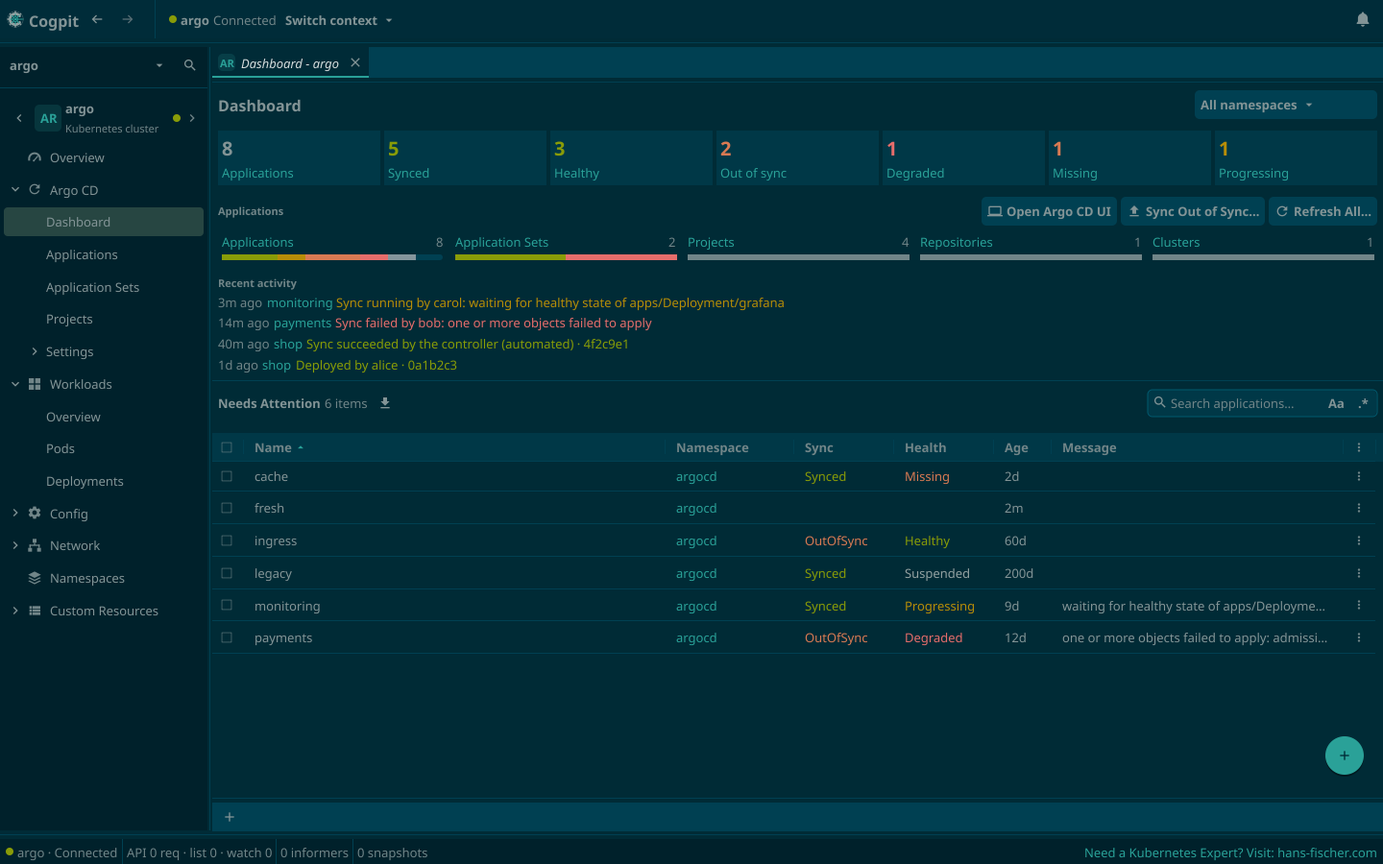
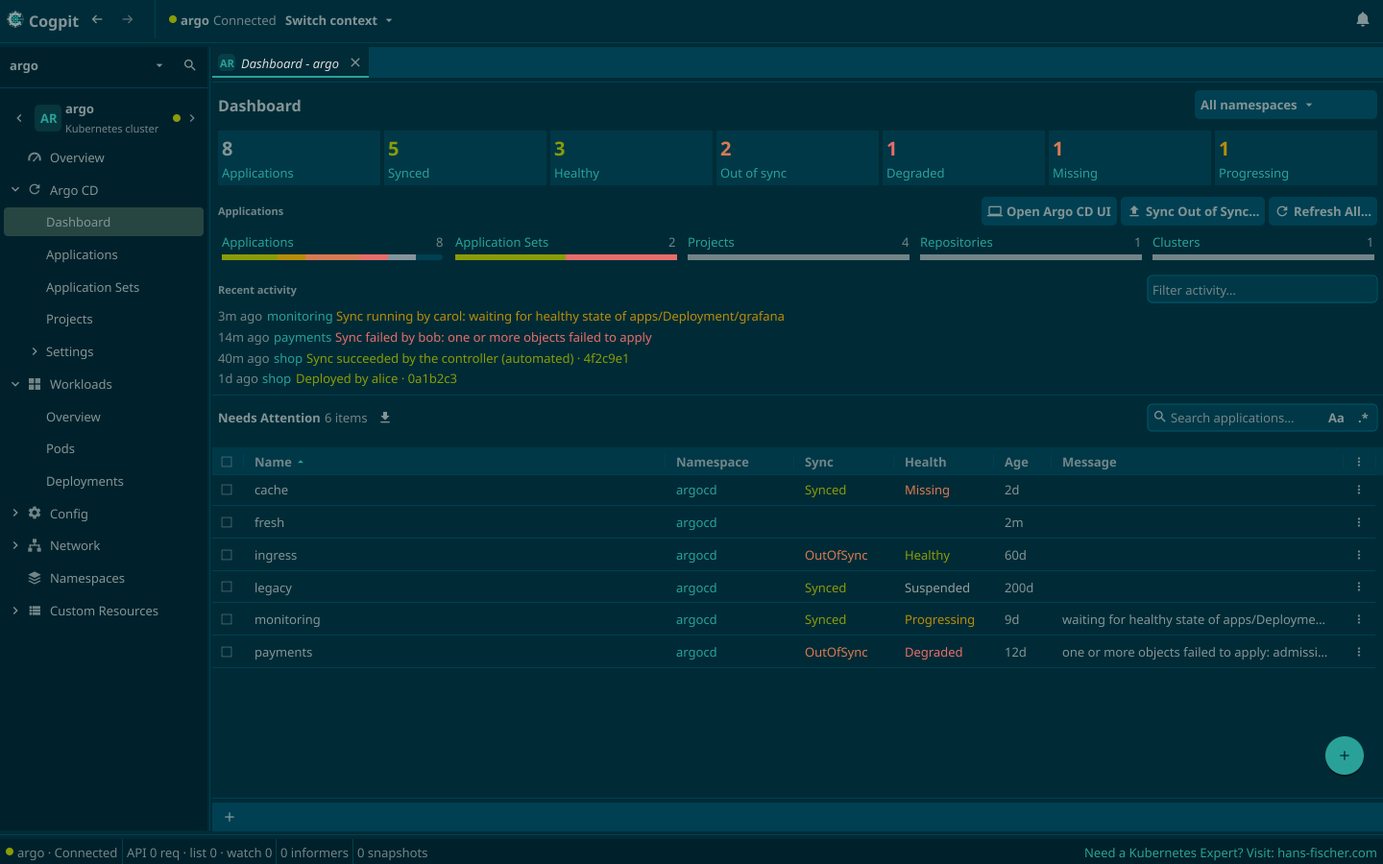
feat(argocd): the Sync and Refresh dialogs list several Applications to uncheck, and the Dashboard's activity has a filter

diff --git a/internal/ui/fyneui/argocd.go b/internal/ui/fyneui/argocd.go
@@ -2,6 +2,7 @@ package fyneui
 
 import (
 	"fmt"
+	"slices"
 	"strings"
 
 	"fyne.io/fyne/v2"
@@ -91,24 +92,63 @@ func argoNames(refs []model.ObjectRef) string {
 	return s
 }
 
-// argoDialog shows a dialog of Argo CD's actions: a line naming the Applications and their
-// context, the options, and the action's button (Lens's "Sync app(s)" and "Refresh app(s)"
-// dialogs, documented, not captured: the layout and texts are Cogpit's).
-func (sh *shell) argoDialog(title, action string, refs []model.ObjectRef, options fyne.CanvasObject, run func()) {
-	width := sh.app.Settings().Theme().Size(sizeConfirmWidth)
+// argoDialog shows a dialog of Argo CD's actions (Lens's "Sync app(s)" and "Refresh app(s)"
+// dialogs, documented, not captured: the layout and texts are Cogpit's): the Applications and
+// their context, the options, and the action's button. Several Applications are a list of checks,
+// every one checked at first, as Lens preselects them; the user unchecks those to leave out, and
+// run gets the checked ones (none: nothing runs).
+func (sh *shell) argoDialog(title, action string, refs []model.ObjectRef, options fyne.CanvasObject, run func([]model.ObjectRef)) {
+	th := sh.app.Settings().Theme()
+	width := th.Size(sizeConfirmWidth)
 	context := ""
 	if len(refs) > 0 {
 		context = refs[0].Context
 	}
-	what := newParagraph(argoNames(refs)+" (context "+context+")", colorMuted, width)
+	picker := newArgoPicker(refs)
+	var what fyne.CanvasObject = newParagraph(argoNames(refs)+" (context "+context+")", colorMuted, width)
+	if len(refs) > 1 {
+		list := container.NewVScroll(picker.checks)
+		list.SetMinSize(fyne.NewSize(width, min(picker.checks.MinSize().Height, th.Size(sizePopupMaxList))))
+		what = container.NewVBox(newParagraph("Context "+context+":", colorMuted, width), list)
+	}
 	d := dialog.NewCustomConfirm(title, action, "Cancel", container.NewVBox(what, newSpace(theme.SizeNamePadding), options),
 		func(ok bool) {
-			if ok {
-				run()
+			if chosen := picker.chosen(); ok && len(chosen) > 0 {
+				run(chosen)
 			}
 		}, sh.win)
 	d.Resize(fyne.NewSize(width, d.MinSize().Height))
 	d.Show()
+}
+
+// argoPicker is a dialog's list of Applications, each a check.
+type argoPicker struct {
+	refs   []model.ObjectRef
+	checks *widget.CheckGroup
+}
+
+func newArgoPicker(refs []model.ObjectRef) *argoPicker {
+	keys := make([]string, len(refs))
+	for i, r := range refs {
+		keys[i] = r.Key()
+	}
+	p := &argoPicker{refs: refs, checks: widget.NewCheckGroup(keys, nil)}
+	p.checks.SetSelected(keys)
+	return p
+}
+
+// chosen returns the checked Applications, in the list's order; a single one is always chosen.
+func (p *argoPicker) chosen() []model.ObjectRef {
+	if len(p.refs) == 1 {
+		return p.refs
+	}
+	var out []model.ObjectRef
+	for _, r := range p.refs {
+		if slices.Contains(p.checks.Selected, r.Key()) {
+			out = append(out, r)
+		}
+	}
+	return out
 }
 
 // openArgoSyncDialog asks whether to prune, then syncs: one Application through
@@ -123,12 +163,12 @@ func (sh *shell) openArgoSyncDialog(refs []model.ObjectRef) {
 	prune := widget.NewCheck("Prune resources not in Git", nil)
 	width := sh.app.Settings().Theme().Size(sizeConfirmWidth)
 	hint := newParagraph("Pruning deletes the live resources the Application manages that are no longer in Git; Cogpit asks once more before it does.", colorMuted, width)
-	sh.argoDialog("Sync "+argoTitle(refs), "Sync", refs, container.NewVBox(prune, hint), func() {
-		if len(refs) == 1 {
-			sh.dispatch(argoSyncCommand, argoSyncParams{Ref: refs[0], Prune: prune.Checked}, nil)
+	sh.argoDialog("Sync "+argoTitle(refs), "Sync", refs, container.NewVBox(prune, hint), func(chosen []model.ObjectRef) {
+		if len(chosen) == 1 {
+			sh.dispatch(argoSyncCommand, argoSyncParams{Ref: chosen[0], Prune: prune.Checked}, nil)
 			return
 		}
-		sh.dispatch(argoSyncManyCommand, argoSyncManyParams{Refs: refs, Prune: prune.Checked}, nil)
+		sh.dispatch(argoSyncManyCommand, argoSyncManyParams{Refs: chosen, Prune: prune.Checked}, nil)
 	})
 }
 
@@ -141,13 +181,13 @@ func (sh *shell) openArgoRefreshDialog(refs []model.ObjectRef) {
 	mode := widget.NewRadioGroup([]string{normal, hard}, nil)
 	mode.Required = true
 	mode.SetSelected(normal)
-	sh.argoDialog("Refresh "+argoTitle(refs), "Refresh", refs, mode, func() {
+	sh.argoDialog("Refresh "+argoTitle(refs), "Refresh", refs, mode, func(chosen []model.ObjectRef) {
 		isHard := mode.Selected == hard
-		if len(refs) == 1 {
-			sh.dispatch(argoRefreshCommand, argoRefreshParams{Ref: refs[0], Hard: isHard}, nil)
+		if len(chosen) == 1 {
+			sh.dispatch(argoRefreshCommand, argoRefreshParams{Ref: chosen[0], Hard: isHard}, nil)
 			return
 		}
-		sh.dispatch(argoRefreshManyCommand, argoRefreshManyParams{Refs: refs, Hard: isHard}, nil)
+		sh.dispatch(argoRefreshManyCommand, argoRefreshManyParams{Refs: chosen, Hard: isHard}, nil)
 	})
 }
 

diff --git a/internal/ui/fyneui/argocd_dashboard.go b/internal/ui/fyneui/argocd_dashboard.go
@@ -1,6 +1,8 @@
 package fyneui
 
 import (
+	"slices"
+	"strings"
 	"sync/atomic"
 	"time"
 
@@ -32,6 +34,7 @@ type argoPanel struct {
 	strip    *fyne.Container
 	cards    *fyne.Container
 	activity *fyne.Container
+	filter   *widget.Entry // the activity's filter: the window's, as the navigator's search is
 	openUI   *widget.Button
 	sync     *widget.Button
 	refresh  *widget.Button
@@ -64,8 +67,12 @@ func newArgoPanel(sh *shell) *argoPanel {
 	actions := container.NewHBox(newTextLine("Applications", colorMuted, theme.SizeNameCaptionText, fyne.TextStyle{Bold: true}),
 		layout.NewSpacer(), p.openUI, p.sync, p.refresh)
 	title := newTextLine("Recent activity", colorMuted, theme.SizeNameCaptionText, fyne.TextStyle{Bold: true})
+	p.filter = widget.NewEntry()
+	p.filter.SetPlaceHolder("Filter activity…")
+	p.filter.OnChanged = func(string) { p.showActivity() }
+	head := container.NewBorder(nil, nil, title, sized(sizeSearchWidth, "", p.filter))
 	p.root = inset(theme.SizeNameInnerPadding, theme.SizeNamePadding,
-		container.NewVBox(p.strip, newSpace(theme.SizeNamePadding), actions, p.cards, newSpace(theme.SizeNamePadding), title, p.activity))
+		container.NewVBox(p.strip, newSpace(theme.SizeNamePadding), actions, p.cards, newSpace(theme.SizeNamePadding), head, p.activity))
 	return p
 }
 
@@ -114,12 +121,32 @@ func (p *argoPanel) show(m *engine.ArgoCDDashboardModel) {
 	p.cards.Refresh()
 	p.enable(p.sync, len(m.OutOfSync) > 0)
 	p.enable(p.refresh, len(m.All) > 0)
+	p.showActivity()
+}
+
+// showActivity lists the newest activities that match the filter (the Application's namespace and
+// name, what happened, the revision; every term, ignoring case), at most argoActivityLines.
+func (p *argoPanel) showActivity() {
+	if p.data == nil {
+		return
+	}
+	terms := strings.Fields(strings.ToLower(p.filter.Text))
 	lines := make([]fyne.CanvasObject, 0, argoActivityLines)
 	now := p.sh.now()
-	for _, a := range m.Activity[:min(len(m.Activity), argoActivityLines)] {
-		lines = append(lines, newArgoActivityLine(p.sh, a, now))
+	for _, a := range p.data.Activity {
+		if len(lines) == argoActivityLines {
+			break
+		}
+		text := strings.ToLower(a.Ref.Key() + " " + a.Text + " " + a.Revision)
+		if !slices.ContainsFunc(terms, func(t string) bool { return !strings.Contains(text, t) }) {
+			lines = append(lines, newArgoActivityLine(p.sh, a, now))
+		}
 	}
-	if len(lines) == 0 {
+	switch {
+	case len(lines) > 0:
+	case len(terms) > 0:
+		lines = append(lines, newTextLine("No activity matches the filter.", colorMuted, theme.SizeNameText, fyne.TextStyle{}))
+	default:
 		lines = append(lines, newTextLine("No operations yet.", colorMuted, theme.SizeNameText, fyne.TextStyle{}))
 	}
 	p.activity.Objects = lines

diff --git a/internal/ui/fyneui/argocd_test.go b/internal/ui/fyneui/argocd_test.go
@@ -313,6 +313,31 @@ func TestArgoDashboardPanel(t *testing.T) {
 		}
 	}
 
+	// The dialog preselects every Application; one unchecked is left out.
+	test.Tap(sh.view.argo.sync)
+	q.until(t, "the sync dialog", func() bool { return w.Canvas().Overlays().Top() != nil })
+	groups := findAll[*widget.CheckGroup](w.Canvas().Overlays().Top())
+	if len(groups) != 1 || len(groups[0].Selected) != 2 {
+		t.Fatalf("the dialog's Applications %+v", groups)
+	}
+	groups[0].SetSelected([]string{"argocd/payments"})
+	argoTapButton(t, w, "Sync")
+	q.until(t, "the sync of the one left", func() bool { return len(writer.Writes()) == 11 })
+	if got := writer.Writes()[10]; got != "sync argocd/payments" {
+		t.Errorf("write %s", got)
+	}
+
+	// The activity's filter.
+	sh.view.argo.filter.SetText("PAYMENTS failed")
+	if n := len(sh.view.argo.activity.Objects); n != 1 {
+		t.Errorf("%d activities match", n)
+	}
+	sh.view.argo.filter.SetText("nothing like it")
+	if l, ok := sh.view.argo.activity.Objects[0].(*textLine); !ok || l.text != "No activity matches the filter." {
+		t.Errorf("no match shows %#v", sh.view.argo.activity.Objects[0])
+	}
+	sh.view.argo.filter.SetText("")
+
 	// A tile opens the Applications view searched for its state.
 	for _, l := range findAll[*linkText](sh.view.argo.strip) {
 		if l.text == "Out of sync" {

diff --git a/docs/parity/resource-parity.md b/docs/parity/resource-parity.md
@@ -188,7 +188,7 @@ come after it ([D-9](../developer/decisions.md#d-9-scope-against-lenss-paid-and-
 | Flux CD › Image Automation › Image Repositories, Image Policies, Image Update Automations (3 views) | `image.toolkit.fluxcd.io/v1` (v1beta2); columns not captured | Reconcile, Suspend, Resume as above; Image Policies Reconcile only | partial (2026-10-13): curated profiles as above (inferred): Image Repositories' Image, Last Scan (an age) and Tags (how many the last scan found), the drawer's newest ten tags; Image Policies' Image Repository (a link) and Latest Image (`status.latestRef`, v1beta2's `latestImage`), the drawer's policy rule and previous image; Image Update Automations' Source (a link to the Git repository) and Last Run, the drawer's branches, path, strategy and last push. No Revision column ([`flux_automation.go`](../../internal/model/kinds/flux_automation.go); `TestFluxStatusTexts`, `TestCuratedGolden`) |
 | Flux CD › Notifications › Alerts, Providers, Receivers (3 views) | `notification.toolkit.fluxcd.io/v1beta3` Alert and Provider (v1beta2), `v1` Receiver (v1beta2); columns not captured | Reconcile, Suspend, Resume as above; Reconcile only for an Alert or Provider that reports a status | partial (2026-10-13): curated profiles as above (inferred): Alerts' Provider (a link) and Severity ("info" by default), the drawer's event sources as links; Providers' Type and Channel; Receivers' Type and Resources (a count), the drawer's resources as links. v1beta3's Alerts and Providers are static, without a status: Ready unless suspended (D-34). A provider's address and proxy and a receiver's webhook path are never shown (H-63) ([`flux_automation.go`](../../internal/model/kinds/flux_automation.go); `TestFluxStatusTexts`, `TestFluxKeepsSecretsOut`, `TestCuratedGolden`) |
 | Flux CD › Sources › Git Repositories, OCI Repositories, Helm Repositories, Buckets, External Artifacts (5 views) | `source.toolkit.fluxcd.io/v1` (v1beta2; External Artifacts v1 only); columns not captured | Reconcile, Suspend, Resume as above; none for External Artifacts, which another controller makes | partial (2026-10-13): curated profiles as above (inferred): URL and Ref for Git and OCI repositories (the branch, tag, semver range, name, commit or digest followed), URL and Type ("default" or "oci") for Helm repositories, Endpoint and Bucket for buckets, Source for external artifacts; Revision the artifact's; a URL's credentials masked (`https://<redacted>@host/…`, SSH's `git@` kept) in cells, search and drawer; the drawers' secret references by name as links, the artifact's digest and update time ([`flux_sources.go`](../../internal/model/kinds/flux_sources.go); `TestFluxURL`, `TestFluxStatusTexts`, `TestCuratedGolden`) |
-| Argo CD | Dashboard, Applications, Application Sets, Projects, Settings › Repositories, Settings › Clusters (Lens's documentation, "Using Argo CD", read 2026-10-13, not captured: Applications Name, Namespace, Sync, Health, Project, Destination, Revision, Age; Application Sets Name, Namespace, Generators, Age; Projects Name, Namespace, Description, Source Repos, Age; Repositories Name, Type, URL, Project, Age; Clusters Name, Server, Age; found by the `argoproj.io` definitions, the settings "whenever Argo CD is installed") | Sync `argocd.application.sync` (with Prune), Refresh `argocd.application.refresh` (Normal or Hard), both in bulk | partial (2026-10-13, G23): the five lists with the documented columns. Applications, Application Sets and Projects are curated profiles of the `argoproj.io/v1alpha1` definitions (picked like Vertical Pod Autoscalers' while the cluster serves them; Cogpit's hidden columns after Lens's: Repository, Target Revision, Path/Chart, Message; Project, Applications (owned, from the cache), Status; Destinations); the row status health first, then sync (Degraded, an error condition or a failed operation an error; Missing a warning; Progressing or an operation in progress pending; OutOfSync a warning; Suspended stopped; Healthy and Synced good), the drawers (sources, destination, sync policy, conditions, operation, the managed resources linking to built-in and Argo CD kinds, at most 500, the last 20 syncs; an Application Set's Applications; a project's destinations, allow and deny lists, roles, sync windows) all inferred. Repositories and Clusters are virtual kinds over the Secrets labelled `argocd.argoproj.io/secret-type`, offered while the cluster serves `applications.argoproj.io` (Cogpit's default); they show only an allowlist of non-credential keys, URLs' user information redacted ([D-35](../developer/decisions.md#d-35-what-argo-cds-repository-and-cluster-secrets-show), a night decision); Name is the Secret's name, Argo CD's own name a hidden Display Name (Cogpit's default) ([`kinds/argocd.go`](../../internal/model/kinds/argocd.go), [`argocd_sets.go`](../../internal/model/kinds/argocd_sets.go), [`argocd_settings.go`](../../internal/model/kinds/argocd_settings.go), [`engine/argocd.go`](../../internal/engine/argocd.go); `TestArgoCDColumns`, `TestArgoCDStatusTexts`, `TestCuratedGolden`, `TestArgoSettingsGolden`, `TestArgoSettingsNeverShowCredentials`, `FuzzArgoCD`, `TestArgoCDKindsFollowTheirDefinitions`). Sync and Refresh partial (2026-10-13): `argocd.application.sync` (prune optional) and `argocd.application.refresh` (normal or hard) on one Application (row menu and drawer, Sync then Refresh before Edit and Delete), `argocd.application.syncMany` and `argocd.application.refreshMany` on a selection, through the Kubernetes API only: Refresh sets `argocd.argoproj.io/refresh`, Sync writes the Application's operation as `argocd app sync` does ([D-36](../developer/decisions.md#d-36-how-argo-cds-sync-writes-the-operation), a night decision: each source's target revision, the spec's sync options and retry, `initiatedBy: cogpit`; bound to the UID and the resourceVersion checked; refused while an operation is requested or running, with that reason); mutating, a sync with prune destructive and confirmed for every origin, its confirmation naming the Applications, namespace and context, that resources no longer in Git are deleted, and the resources Argo CD's last comparison marks for pruning (Cogpit's addition); one notification for a batch, as Lens's documentation says ([`commands/argocd.go`](../../internal/engine/commands/argocd.go), [`cluster/argocd.go`](../../internal/cluster/argocd.go); `TestArgoSyncWritesTheOperation`, `TestArgoSyncRefusedWhileAnOperationRuns`, `TestArgoSyncChecksAgainAfterAChange`, `TestArgoRefreshNormalAndHard`, `TestArgoBulkSyncAndRefresh`, `TestArgoActionsBoundToTheConfirmedUID`, `TestArgoSyncPatch`, `TestArgoRefreshPatches`, `TestArgoSyncConflicts`). Dashboard partial in the engine (2026-10-13): a page (`argocd/dashboard`) built from the cache for the namespace filter: Lens's documented health strip (Applications, Synced, Healthy, Out of sync, Degraded, Missing, Progressing), the Applications by health and by sync, a card per served Argo CD kind with its count and health bar, Needs attention as the page's table (the Applications not Healthy or not Synced, or whose last operation failed, with Name, Namespace, Sync, Health, Message and Age), the out-of-sync Applications and all of them for the card's Sync and Refresh, and the recent activity (operations and syncs from the Applications' status, newest first, 20); a strip's tile opens the Applications view through its search text, since the view has no status filter (inferred); agents read it with `argocd.dashboard` ([`engine/argocd_dashboard.go`](../../internal/engine/argocd_dashboard.go); `TestArgoDashboard`). "Open Argo UI" partial (2026-10-13): `argocd.openUI` finds the Service labelled `app.kubernetes.io/name=argocd-server` in the cache, as Lens's documentation says Lens does, and forwards its https port 443 (else its http port 80) as `service.portForward` does, or reuses that forward while it listens; the window opens the URL, an agent gets it; mutating, as a forward is (`TestArgoOpenUIFindsTheServer`, `TestArgoOpenUIOpensTheForward`; inferred: the port's choice; not tried against a running argocd-server). Not built: the activity's text filter. In the window (2026-10-13): the navigator's Argo CD group ([ui-parity › Cluster sidebar](ui-parity.md#cluster-sidebar)); the Dashboard's strip (a tile opens the Applications view searched for its state), the cards with their health bars, Sync Out of Sync… and Refresh All… on the Applications card (Lens: a sync preselects the out-of-sync Applications, a refresh all; Cogpit takes them as they are, without a way to deselect one, inferred), the last eight activities, Needs attention as the page's table; the Sync dialog with Lens's "Prune resources not in Git" toggle, off at first, and the Refresh dialog with Normal or Hard, from the row menu, the drawer's toolbar, the palette and the selection's menu; a sync with prune then shows the engine's confirmation (Cogpit asks twice: the dialog, then the confirmation naming what prune deletes; Lens's single dialog shows the risk, inferred) ([`fyneui/argocd.go`](../../internal/ui/fyneui/argocd.go), [`argocd_dashboard.go`](../../internal/ui/fyneui/argocd_dashboard.go); `TestArgoNavigatorGroup`, `TestArgoDashboardPanel`, `TestArgoSyncWithPruneConfirms`; PNGs dashboard [dark](../../internal/ui/fyneui/testdata/argocd_dashboard_dark.png), [light](../../internal/ui/fyneui/testdata/argocd_dashboard_light.png), Applications [dark](../../internal/ui/fyneui/testdata/argocd_applications_dark.png), [light](../../internal/ui/fyneui/testdata/argocd_applications_light.png), an Application's drawer [dark](../../internal/ui/fyneui/testdata/argocd_application_drawer_dark.png), [light](../../internal/ui/fyneui/testdata/argocd_application_drawer_light.png), [Sync dialog](../../internal/ui/fyneui/testdata/argocd_sync_dialog_dark.png), [Refresh dialog](../../internal/ui/fyneui/testdata/argocd_refresh_dialog_light.png)). Not tried in a real window; not checked against a running Argo CD |
+| Argo CD | Dashboard, Applications, Application Sets, Projects, Settings › Repositories, Settings › Clusters (Lens's documentation, "Using Argo CD", read 2026-10-13, not captured: Applications Name, Namespace, Sync, Health, Project, Destination, Revision, Age; Application Sets Name, Namespace, Generators, Age; Projects Name, Namespace, Description, Source Repos, Age; Repositories Name, Type, URL, Project, Age; Clusters Name, Server, Age; found by the `argoproj.io` definitions, the settings "whenever Argo CD is installed") | Sync `argocd.application.sync` (with Prune), Refresh `argocd.application.refresh` (Normal or Hard), both in bulk | partial (2026-10-13, G23): the five lists with the documented columns. Applications, Application Sets and Projects are curated profiles of the `argoproj.io/v1alpha1` definitions (picked like Vertical Pod Autoscalers' while the cluster serves them; Cogpit's hidden columns after Lens's: Repository, Target Revision, Path/Chart, Message; Project, Applications (owned, from the cache), Status; Destinations); the row status health first, then sync (Degraded, an error condition or a failed operation an error; Missing a warning; Progressing or an operation in progress pending; OutOfSync a warning; Suspended stopped; Healthy and Synced good), the drawers (sources, destination, sync policy, conditions, operation, the managed resources linking to built-in and Argo CD kinds, at most 500, the last 20 syncs; an Application Set's Applications; a project's destinations, allow and deny lists, roles, sync windows) all inferred. Repositories and Clusters are virtual kinds over the Secrets labelled `argocd.argoproj.io/secret-type`, offered while the cluster serves `applications.argoproj.io` (Cogpit's default); they show only an allowlist of non-credential keys, URLs' user information redacted ([D-35](../developer/decisions.md#d-35-what-argo-cds-repository-and-cluster-secrets-show), a night decision); Name is the Secret's name, Argo CD's own name a hidden Display Name (Cogpit's default) ([`kinds/argocd.go`](../../internal/model/kinds/argocd.go), [`argocd_sets.go`](../../internal/model/kinds/argocd_sets.go), [`argocd_settings.go`](../../internal/model/kinds/argocd_settings.go), [`engine/argocd.go`](../../internal/engine/argocd.go); `TestArgoCDColumns`, `TestArgoCDStatusTexts`, `TestCuratedGolden`, `TestArgoSettingsGolden`, `TestArgoSettingsNeverShowCredentials`, `FuzzArgoCD`, `TestArgoCDKindsFollowTheirDefinitions`). Sync and Refresh partial (2026-10-13): `argocd.application.sync` (prune optional) and `argocd.application.refresh` (normal or hard) on one Application (row menu and drawer, Sync then Refresh before Edit and Delete), `argocd.application.syncMany` and `argocd.application.refreshMany` on a selection, through the Kubernetes API only: Refresh sets `argocd.argoproj.io/refresh`, Sync writes the Application's operation as `argocd app sync` does ([D-36](../developer/decisions.md#d-36-how-argo-cds-sync-writes-the-operation), a night decision: each source's target revision, the spec's sync options and retry, `initiatedBy: cogpit`; bound to the UID and the resourceVersion checked; refused while an operation is requested or running, with that reason); mutating, a sync with prune destructive and confirmed for every origin, its confirmation naming the Applications, namespace and context, that resources no longer in Git are deleted, and the resources Argo CD's last comparison marks for pruning (Cogpit's addition); one notification for a batch, as Lens's documentation says ([`commands/argocd.go`](../../internal/engine/commands/argocd.go), [`cluster/argocd.go`](../../internal/cluster/argocd.go); `TestArgoSyncWritesTheOperation`, `TestArgoSyncRefusedWhileAnOperationRuns`, `TestArgoSyncChecksAgainAfterAChange`, `TestArgoRefreshNormalAndHard`, `TestArgoBulkSyncAndRefresh`, `TestArgoActionsBoundToTheConfirmedUID`, `TestArgoSyncPatch`, `TestArgoRefreshPatches`, `TestArgoSyncConflicts`). Dashboard partial in the engine (2026-10-13): a page (`argocd/dashboard`) built from the cache for the namespace filter: Lens's documented health strip (Applications, Synced, Healthy, Out of sync, Degraded, Missing, Progressing), the Applications by health and by sync, a card per served Argo CD kind with its count and health bar, Needs attention as the page's table (the Applications not Healthy or not Synced, or whose last operation failed, with Name, Namespace, Sync, Health, Message and Age), the out-of-sync Applications and all of them for the card's Sync and Refresh, and the recent activity (operations and syncs from the Applications' status, newest first, 20); a strip's tile opens the Applications view through its search text, since the view has no status filter (inferred); agents read it with `argocd.dashboard` ([`engine/argocd_dashboard.go`](../../internal/engine/argocd_dashboard.go); `TestArgoDashboard`). "Open Argo UI" partial (2026-10-13): `argocd.openUI` finds the Service labelled `app.kubernetes.io/name=argocd-server` in the cache, as Lens's documentation says Lens does, and forwards its https port 443 (else its http port 80) as `service.portForward` does, or reuses that forward while it listens; the window opens the URL, an agent gets it; mutating, as a forward is (`TestArgoOpenUIFindsTheServer`, `TestArgoOpenUIOpensTheForward`; inferred: the port's choice; not tried against a running argocd-server). In the window (2026-10-13): the navigator's Argo CD group ([ui-parity › Cluster sidebar](ui-parity.md#cluster-sidebar)); the Dashboard's strip (a tile opens the Applications view searched for its state), the cards with their health bars, Sync Out of Sync… and Refresh All… on the Applications card (Lens: a sync preselects the out-of-sync Applications, a refresh all; the dialog lists them each with a check, all checked, the user unchecks those to leave out; the layout inferred), the last eight activities with a filter of their own (the window's, every term ignoring case, inferred), Needs attention as the page's table; the Sync dialog with Lens's "Prune resources not in Git" toggle, off at first, and the Refresh dialog with Normal or Hard, from the row menu, the drawer's toolbar, the palette and the selection's menu; a sync with prune then shows the engine's confirmation (Cogpit asks twice: the dialog, then the confirmation naming what prune deletes; Lens's single dialog shows the risk, inferred) ([`fyneui/argocd.go`](../../internal/ui/fyneui/argocd.go), [`argocd_dashboard.go`](../../internal/ui/fyneui/argocd_dashboard.go); `TestArgoNavigatorGroup`, `TestArgoDashboardPanel`, `TestArgoSyncWithPruneConfirms`; PNGs dashboard [dark](../../internal/ui/fyneui/testdata/argocd_dashboard_dark.png), [light](../../internal/ui/fyneui/testdata/argocd_dashboard_light.png), Applications [dark](../../internal/ui/fyneui/testdata/argocd_applications_dark.png), [light](../../internal/ui/fyneui/testdata/argocd_applications_light.png), an Application's drawer [dark](../../internal/ui/fyneui/testdata/argocd_application_drawer_dark.png), [light](../../internal/ui/fyneui/testdata/argocd_application_drawer_light.png), [Sync dialog](../../internal/ui/fyneui/testdata/argocd_sync_dialog_dark.png), [Refresh dialog](../../internal/ui/fyneui/testdata/argocd_refresh_dialog_light.png)). Not tried in a real window; not checked against a running Argo CD |
 | Security Center | Images (Name, Platforms, Pods, Vulnerabilities, Exposed Secrets, Status), Resources, Roles; from the Trivy Operator | Scan image `securityCenter.image.scan`, Show details, CSV export | missing |
 | Cost Monitoring | costs over 24h, 7d, 30d; "Include idle" | Optimize cost with AI | missing |
 

diff --git a/docs/parity/gaps.md b/docs/parity/gaps.md
@@ -1,6 +1,6 @@
 # Where Cogpit falls short of Lens
 
-> **Last reviewed:** 2026-10-12 · **Last updated:** 2026-10-13 · **Change:** minor (G23: Argo CD built, partial, night build (D-35, D-36), its remainder 4–10 h, the gap's estimate for the lead; G23: the Flux CD section built, partial: its views, dashboard and actions, D-33, D-34, Flux's remainder 6–15 h, the table's estimate for the lead; G7, G8, G13: the node shell (D-37) and Cluster Settings › Node Shell partial, 39 of 39 actions, estimates of G7 and G8 down; G9, G7: Create Secret partial, the eighth create dialog, the user's only (D-19), 38 of 39 actions; G1: CI rebuilt as parallel jobs of at most ten minutes, GoSec and cyclomatic complexity added, semantic-release live; G14: each release carries the unsigned app, `cogpit-cli` and `SHA256SUMS`, estimate not moved; G12, G6: a node drawer's Pods table with CPU and Memory and sortable, owner, removed from Missing, estimate not moved; G12: every byte amount in binary units with one decimal, D-32, estimate not moved; G8, G13: every timestamp in the zone and the region's format, D-31, estimates not moved; G6: the Secrets drawer decodes certificates, beyond Lens (D-30), estimate not moved; G5: the lists' copy icon outside a blacklist of columns and right after the text (owner, D-25), estimate not moved; G11: D-29 built, authenticated repositories from Helm's file, estimate 3–10 h; G3: workload logs, port forwards and one object's read follow the access reviews' answers, fixed; G5: copy icons in the lists built (D-25), estimate not moved; G3: the Overviews follow the access reviews' answers, fixed; G6: references to Pod Security Policies, admission policies and Device Resources link, fixed; G2: `cogpit-cli contexts` marks an insecure context; G5, G13: a removed cluster's tabs close, fixed; G13: Cluster › Disconnect follows a reconnect, fixed; G11, G5: the owner's requirements of the morning after the night run (D-29, D-25); G17: `view_rows`, `object_get`'s related objects, the agent writes allowance and the audit log in the GUI built; G17: `view_rows`, `object_get`'s related objects and the agent writes allowance in the GUI built; G17: `view_rows` and `object_get`'s related objects built; G17: `view_rows` built; G9: the Create resource tab's save and search buttons built, Revert to original built, drafts of unsaved editor text built, estimate not moved; G9: Revert to original built, drafts of unsaved editor text built, estimate not moved; G9: drafts of unsaved editor text built, estimate not moved; G3: namespace-scoped informers for users who may not list a kind in all namespaces built, estimate not moved; G11: the ConfigMaps storage driver built, the SQL one left missing with its reason, estimate not moved; G2: the kubeconfig's `proxy-url`, CA, `tls-server-name` and `insecure-skip-tls-verify` verified against TLS test servers, a `proxy-url` password kept out of connect errors, insecure contexts marked, estimate 8–25 h; G13: the kubectl Preferences built; G8: kubectl for terminals built, D-3; G6: the node drawer's Devices section built, estimate not moved; G8: copy and paste with the right mouse button partial, the Windows and Linux copy and paste keys, estimate not moved; G5: the search field's "Aa" and ".*" toggles built, estimate not moved; G13: the non-cluster proxy built, untrusted CAs held back; G13: a cluster's proxy built; G12: hidden metrics built; G5, G13: the navigator's section level, Local Kubeconfigs, and its scope as engine state built, the tab bar showing the scope's tabs, two rows from missing to partial, estimates not moved; G5: the title bar's history arrows, notifications and context menu built; G5: column reorder by dragging built; G5: row checkboxes and the selection's menu built; G9, G7: Delete of a selection built in the engine (`object.deleteMany`), estimates not moved; G5, G13: the welcome page, the Help and Window menus, Disconnect and Remove from Cogpit built, four rows partial, estimates not moved; G8: the log tab's pod and container selectors, older lines and jump to a time partial; G8: the log tab's pod and container selectors and older lines partial; G8: the log tab's pod and container selectors partial; G11: a release upgraded to a version from the user's repositories; G5, G13: the tab bar of cluster views built, its five shortcut rows, the navigator's ⇧↵ fixed tab, estimates not moved; G13: Preferences and Cluster settings built, night run, 11 rows partial, G8's terminal rows 2, estimates not moved; G12: the cluster Overview built, the remainder 15–35 h; G6: Applications, Vertical Pod Autoscalers and the four Device Resources views partial; G6: Vertical Pod Autoscalers and the four Device Resources views partial; G6: the four Device Resources views partial; G11: chart repositories, the Charts view and the install built; G12: the owner's evening requirements built (both providers together, the status line, the fallback, a missing value as an empty cell; measured on kind); G13: the command palette and its shortcuts built, estimate 50–140 h, the summary table not recounted; G2: `cogpit-cli contexts` and `get` built; G5, G13: the navigator's header, root, tooltips and keyboard built; G12: the owner's evening requirements (provider status line, Prometheus history then Metrics Server live) and the open step question; G16: the quit crash fixed; G12: Prometheus in the window, checked against a real Prometheus on kind; G12: Prometheus, backend; G2: Lens's Kubeconfig Syncs captures followed, scope C2; totals not recounted) · **Target:** Lens Desktop 2026.10.51501
+> **Last reviewed:** 2026-10-12 · **Last updated:** 2026-10-13 · **Change:** minor (G23: Argo CD built, partial, night build (D-35, D-36), its remainder 3–8 h, the gap's estimate for the lead; G23: Argo CD built, partial, night build (D-35, D-36), its remainder 4–10 h, the gap's estimate for the lead; G23: the Flux CD section built, partial: its views, dashboard and actions, D-33, D-34, Flux's remainder 6–15 h, the table's estimate for the lead; G7, G8, G13: the node shell (D-37) and Cluster Settings › Node Shell partial, 39 of 39 actions, estimates of G7 and G8 down; G9, G7: Create Secret partial, the eighth create dialog, the user's only (D-19), 38 of 39 actions; G1: CI rebuilt as parallel jobs of at most ten minutes, GoSec and cyclomatic complexity added, semantic-release live; G14: each release carries the unsigned app, `cogpit-cli` and `SHA256SUMS`, estimate not moved; G12, G6: a node drawer's Pods table with CPU and Memory and sortable, owner, removed from Missing, estimate not moved; G12: every byte amount in binary units with one decimal, D-32, estimate not moved; G8, G13: every timestamp in the zone and the region's format, D-31, estimates not moved; G6: the Secrets drawer decodes certificates, beyond Lens (D-30), estimate not moved; G5: the lists' copy icon outside a blacklist of columns and right after the text (owner, D-25), estimate not moved; G11: D-29 built, authenticated repositories from Helm's file, estimate 3–10 h; G3: workload logs, port forwards and one object's read follow the access reviews' answers, fixed; G5: copy icons in the lists built (D-25), estimate not moved; G3: the Overviews follow the access reviews' answers, fixed; G6: references to Pod Security Policies, admission policies and Device Resources link, fixed; G2: `cogpit-cli contexts` marks an insecure context; G5, G13: a removed cluster's tabs close, fixed; G13: Cluster › Disconnect follows a reconnect, fixed; G11, G5: the owner's requirements of the morning after the night run (D-29, D-25); G17: `view_rows`, `object_get`'s related objects, the agent writes allowance and the audit log in the GUI built; G17: `view_rows`, `object_get`'s related objects and the agent writes allowance in the GUI built; G17: `view_rows` and `object_get`'s related objects built; G17: `view_rows` built; G9: the Create resource tab's save and search buttons built, Revert to original built, drafts of unsaved editor text built, estimate not moved; G9: Revert to original built, drafts of unsaved editor text built, estimate not moved; G9: drafts of unsaved editor text built, estimate not moved; G3: namespace-scoped informers for users who may not list a kind in all namespaces built, estimate not moved; G11: the ConfigMaps storage driver built, the SQL one left missing with its reason, estimate not moved; G2: the kubeconfig's `proxy-url`, CA, `tls-server-name` and `insecure-skip-tls-verify` verified against TLS test servers, a `proxy-url` password kept out of connect errors, insecure contexts marked, estimate 8–25 h; G13: the kubectl Preferences built; G8: kubectl for terminals built, D-3; G6: the node drawer's Devices section built, estimate not moved; G8: copy and paste with the right mouse button partial, the Windows and Linux copy and paste keys, estimate not moved; G5: the search field's "Aa" and ".*" toggles built, estimate not moved; G13: the non-cluster proxy built, untrusted CAs held back; G13: a cluster's proxy built; G12: hidden metrics built; G5, G13: the navigator's section level, Local Kubeconfigs, and its scope as engine state built, the tab bar showing the scope's tabs, two rows from missing to partial, estimates not moved; G5: the title bar's history arrows, notifications and context menu built; G5: column reorder by dragging built; G5: row checkboxes and the selection's menu built; G9, G7: Delete of a selection built in the engine (`object.deleteMany`), estimates not moved; G5, G13: the welcome page, the Help and Window menus, Disconnect and Remove from Cogpit built, four rows partial, estimates not moved; G8: the log tab's pod and container selectors, older lines and jump to a time partial; G8: the log tab's pod and container selectors and older lines partial; G8: the log tab's pod and container selectors partial; G11: a release upgraded to a version from the user's repositories; G5, G13: the tab bar of cluster views built, its five shortcut rows, the navigator's ⇧↵ fixed tab, estimates not moved; G13: Preferences and Cluster settings built, night run, 11 rows partial, G8's terminal rows 2, estimates not moved; G12: the cluster Overview built, the remainder 15–35 h; G6: Applications, Vertical Pod Autoscalers and the four Device Resources views partial; G6: Vertical Pod Autoscalers and the four Device Resources views partial; G6: the four Device Resources views partial; G11: chart repositories, the Charts view and the install built; G12: the owner's evening requirements built (both providers together, the status line, the fallback, a missing value as an empty cell; measured on kind); G13: the command palette and its shortcuts built, estimate 50–140 h, the summary table not recounted; G2: `cogpit-cli contexts` and `get` built; G5, G13: the navigator's header, root, tooltips and keyboard built; G12: the owner's evening requirements (provider status line, Prometheus history then Metrics Server live) and the open step question; G16: the quit crash fixed; G12: Prometheus in the window, checked against a real Prometheus on kind; G12: Prometheus, backend; G2: Lens's Kubeconfig Syncs captures followed, scope C2; totals not recounted) · **Target:** Lens Desktop 2026.10.51501
 
 Every known shortfall against Lens Desktop 2026.10.51501, and against Cogpit's own targets beyond
 Lens, one entry each, ranked by what stands between Cogpit and alpha, then beta. This is the work
@@ -963,9 +963,9 @@ D-1 is decided for Fyne ([results](../developer/spike-fyne.md#results)).
   selection, through the Kubernetes API ([D-36](../developer/decisions.md#d-36-how-argo-cds-sync-writes-the-operation)).
   Evidence: [resource-parity](resource-parity.md#paid-lens-desktop-views), the Argo CD row; on kind
   `TestKindArgoCD`; "Open Argo UI" as `argocd.openUI`, a port forward to `argocd-server`. Left for
-  Argo CD: the activity's text filter, deselecting Applications in the card's Sync and Refresh, a check against
+  Argo CD: a check against
   a running Argo CD and against Lens's views (not captured), a single dialog for a sync with prune
-  (Cogpit asks twice); about 4–10 h of the estimate below.
+  (Cogpit asks twice); about 3–8 h of the estimate below.
 - **Impact:** GitOps is daily work for the owner's team; in Lens it needs a paid plan.
 - **Estimate:** 55–115 h (2–4 h per kind profile, the dashboards, two actions), built into the
   code like every integration ([D-5](../developer/decisions.md#d-5-extensions)). After the Flux
@@ -1414,6 +1414,7 @@ D-1 is decided for Fyne ([results](../developer/spike-fyne.md#results)).
 
 | Date | Change | Summary |
 |---|---|---|
+| 2026-10-13 | minor | G23 (night build): Argo CD built, partial: the navigator group, five lists, the Dashboard, Sync with Prune and Refresh Normal or Hard (D-35, D-36); what is left for Argo CD about 3–8 h; the gap's estimate for the lead to redo with Flux CD's |
 | 2026-10-13 | minor | G23 (night build): Argo CD built, partial: the navigator group, five lists, the Dashboard, Sync with Prune and Refresh Normal or Hard (D-35, D-36); what is left for Argo CD about 4–10 h; the gap's estimate for the lead to redo with Flux CD's |
 | 2026-10-13 | minor | G23: the Flux CD section built, partial: the navigator's Flux group, curated profiles of the thirteen Flux kinds, the Flux dashboard (D-34), Reconcile, Suspend and Resume on objects and selections (D-33); Flux's remainder 6–15 h, the summary table's estimate left to the lead |
 | 2026-10-13 | minor | G7, G8, G13: the node shell partial (night build, D-37, a night decision for the owner to confirm) and Cluster Settings › Node Shell (D-38); every one of the 39 actions exists; G7 8–35 h (was 12–45), G8 13–34 h (was 16–40); the totals not recounted (the lead recounts) |
